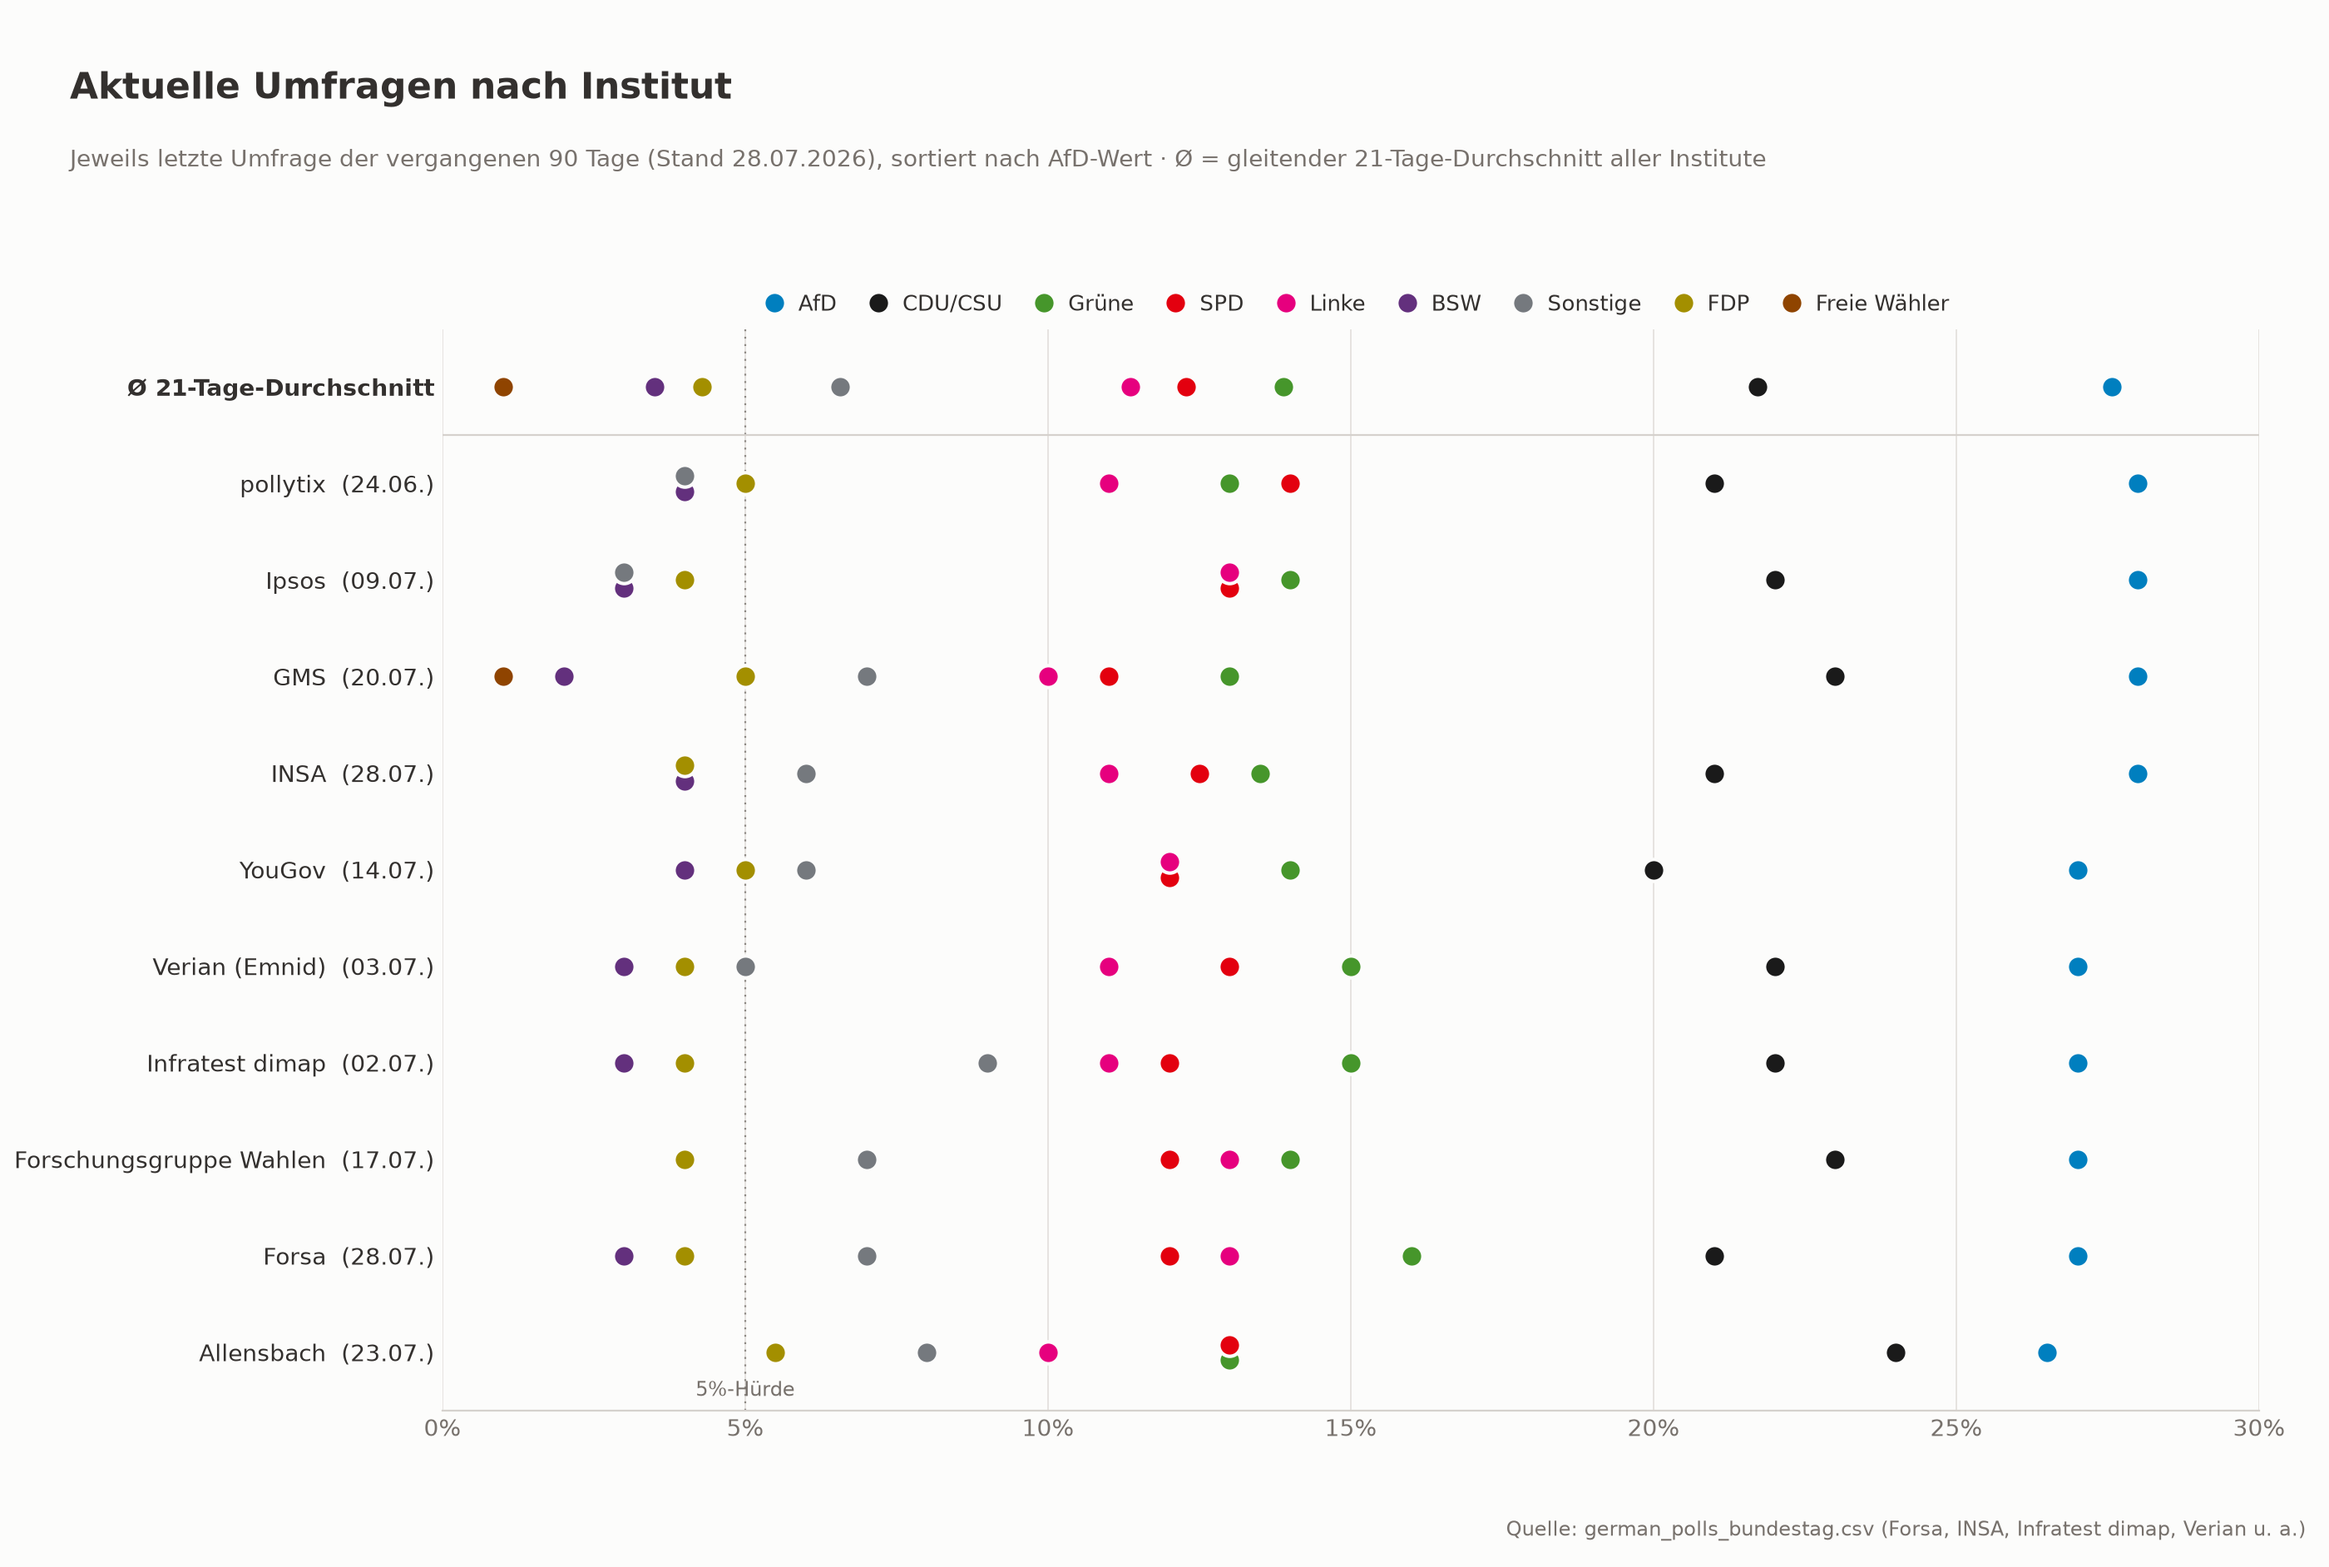
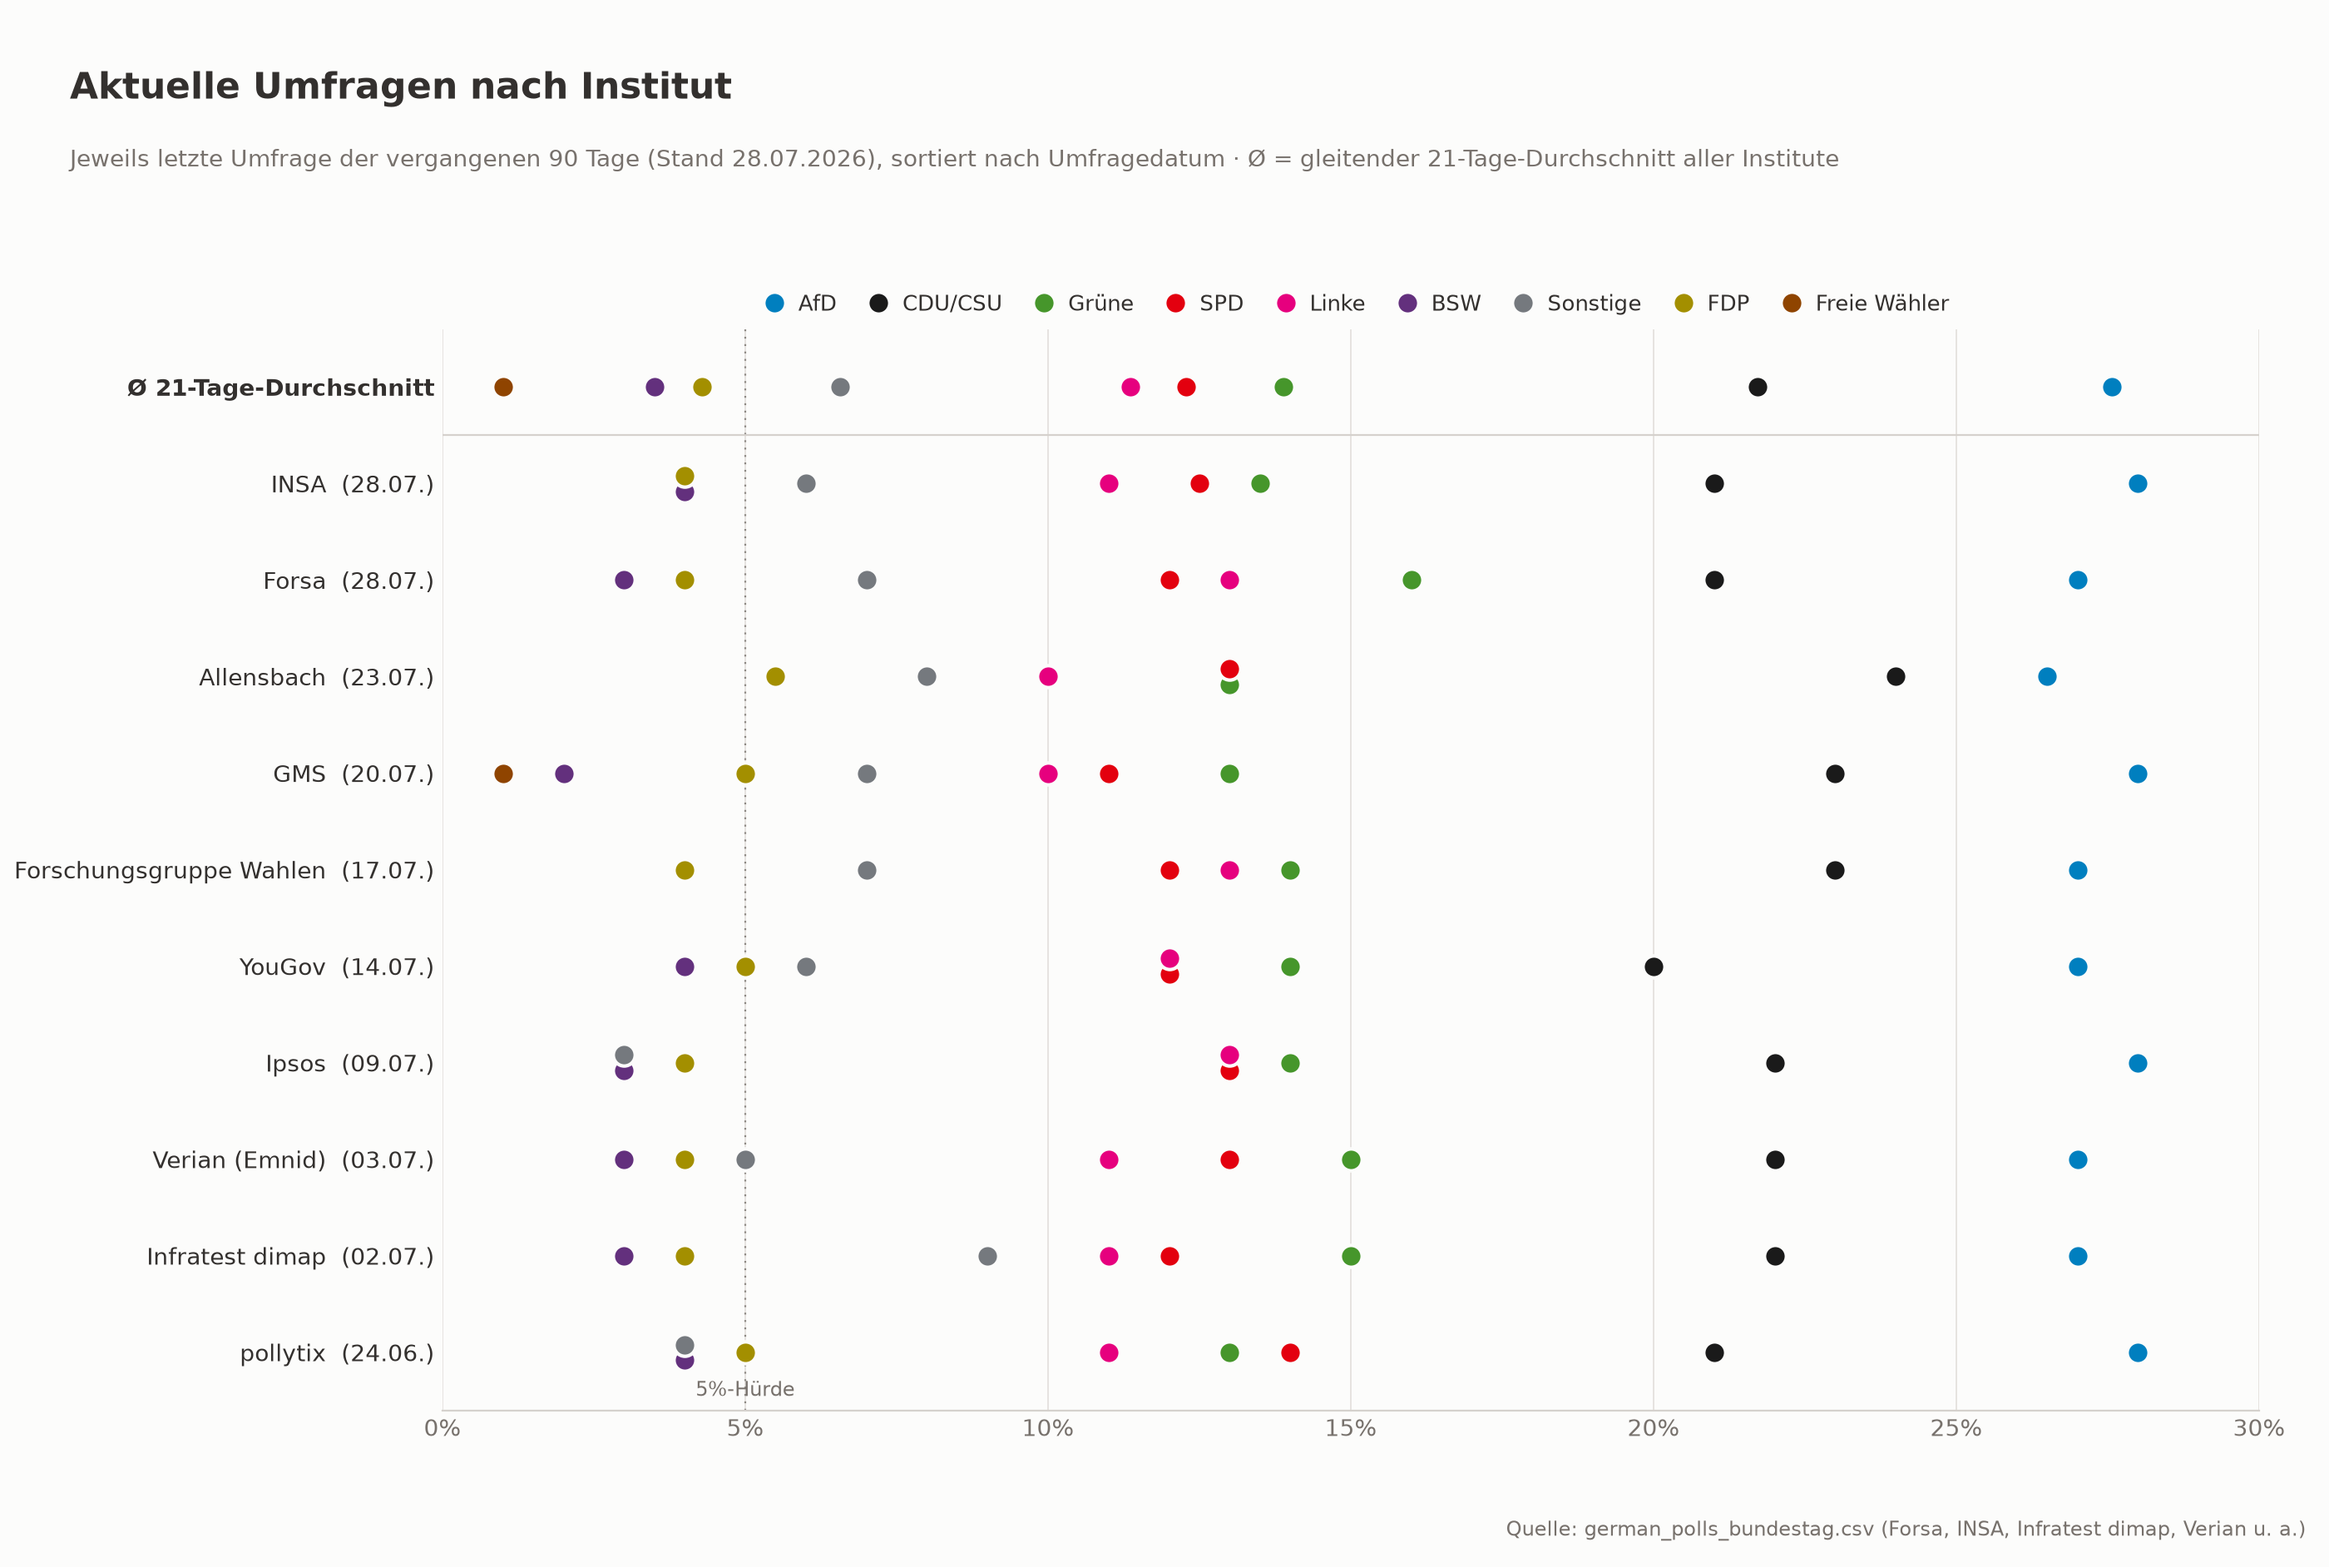
Order the institute chart by poll date
The "Aktuelle Umfragen nach Institut" rows were sorted by AfD share;
sort them by the date of each institute's latest poll instead, newest
at the top. Subtitle and README updated to match.

diff --git a/main.py b/main.py
@@ -271,7 +271,7 @@ def plot_coalition_trends(df: pd.DataFrame, out_path: str) -> None:
 def plot_institutes(df: pd.DataFrame, out_path: str) -> None:
     cutoff = df.index.max() - pd.Timedelta(days=90)
     latest = df[df.index >= cutoff].reset_index().groupby("institute").last()
-    latest = latest.sort_values("AfD")
+    latest = latest.sort_values("date")
 
     avg = latest_averages(df)
     rows = [(f"{inst}  ({row['date']:%d.%m.})", row) for inst, row in latest.iterrows()]
@@ -329,7 +329,7 @@ def plot_institutes(df: pd.DataFrame, out_path: str) -> None:
     fig.text(
         0.03, 0.905,
         f"Jeweils letzte Umfrage der vergangenen 90 Tage (Stand {df.index.max():%d.%m.%Y}), "
-        "sortiert nach AfD-Wert · Ø = gleitender 21-Tage-Durchschnitt aller Institute",
+        "sortiert nach Umfragedatum · Ø = gleitender 21-Tage-Durchschnitt aller Institute",
         fontsize=10, color=MUTED, va="top",
     )
     fig.text(

diff --git a/README.md b/README.md
@@ -18,7 +18,7 @@ plausibility):
 ![Coalition combinations](german_polls_coalitions.png)
 
 A fourth chart compares institutes ("house effects"): each row is an
-institute's most recent poll from the past 90 days, sorted by AfD share,
+institute's most recent poll from the past 90 days, sorted by poll date,
 with the all-institute rolling average on top for reference:
 
 ![Poll results by institute](german_polls_institutes.png)
